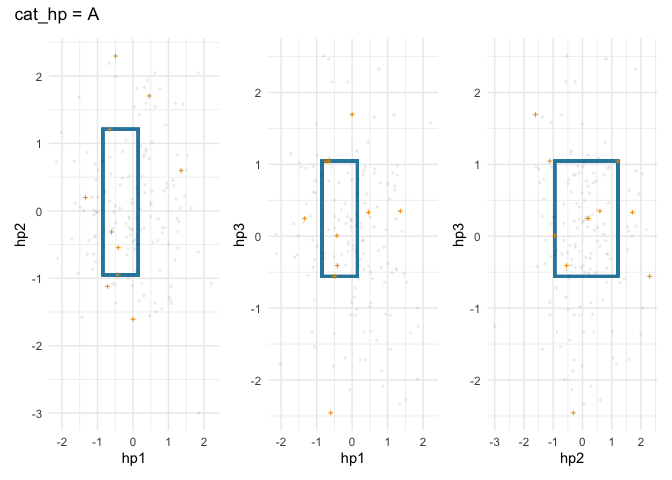
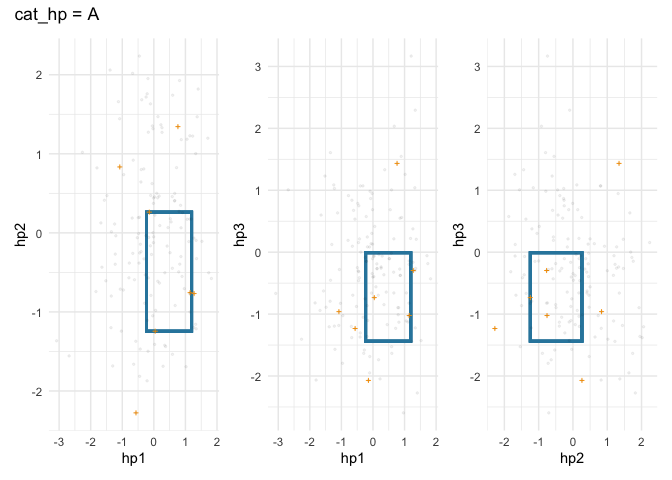
fixed README

diff --git a/README.md b/README.md
@@ -55,26 +55,23 @@ summary(learner)
 #> 
 #> Coefficients:
 #> --------------------------
-#> cat_hp   hyperparameter           min         max
-#> -------  ---------------  -----------  ----------
-#> B        hp1               -0.7764947   0.4734998
-#> B        hp2               -0.8412868   1.5176070
-#> B        hp3               -1.3116351   0.2921209
-#> A        hp1               -0.8516437   0.1483579
-#> A        hp2               -0.9486517   1.2107492
-#> A        hp3               -0.5583463   1.0453884
+#> cat_hp   hyperparameter           min          max
+#> -------  ---------------  -----------  -----------
+#> B        hp1               -0.5503593    1.1163089
+#> B        hp2               -0.6611005    1.0055666
+#> B        hp3               -0.5901556    1.0765107
+#> A        hp1               -0.2317292    1.1968421
+#> A        hp2               -1.2437949    0.2622605
+#> A        hp3               -1.4374940   -0.0089225
 #> 
 #> 
 #> Status:
 #> --------------------------
 #> cat_hp   status     objective_value   n_violations   observations
 #> -------  --------  ----------------  -------------  -------------
-#> B        optimal          0.5019506              5              8
-#> A        optimal          0.5383008              7             10
+#> B        optimal          0.5595411              6              6
+#> A        optimal          0.4877062              5              7
 ```
-
-What is special about using `README.Rmd` instead of just `README.md`?
-You can include R chunks like so:
 
 ``` r
 ggplot2::autoplot(learner, wrap = TRUE)$A
@@ -84,18 +81,17 @@ ggplot2::autoplot(learner, wrap = TRUE)$A
 
 ``` r
 outliers(learner)
-#>       task       auc           hp1        hp2        hp3 cat_hp
-#>     <char>     <num>         <num>      <num>      <num> <char>
-#>  1:     T1 0.9457825 -0.0574183463 -0.8412868  0.9874632      B
-#>  2:     T1 0.9457825 -0.3108891819 -1.1474346  0.2921209      B
-#>  3:     T3 0.9457825 -0.2442807584  0.6686297 -1.8293555      B
-#>  4:     T2 0.9457825 -1.7166074293  1.7225320 -1.0560038      B
-#>  5:     T3 0.9457825  1.9609021680  1.7007655 -1.3116351      B
-#>  6:     T2 0.9457825  1.3581245233  0.5969794  0.3494849      A
-#>  7:     T3 0.9039644 -0.4916394832  2.2959415 -0.5583463      A
-#>  8:     T3 0.9039644  0.4589323361  1.7046237  0.3321837      A
-#>  9:     T1 0.9457825 -1.3361378451  0.1975747  0.2458097      A
-#> 10:     T1 0.9457825 -0.0002474957 -1.6072197  1.6925467      A
-#> 11:     T3 0.9039644 -0.6039371069 -0.3122782 -2.4570447      A
-#> 12:     T2 0.9457825 -0.7203622272 -1.1194251  1.0443674      A
+#>       task       auc        hp1        hp2        hp3 cat_hp
+#>     <char>     <num>      <num>      <num>      <num> <char>
+#>  1:     T2 0.9758080  0.1528895  0.7124344 -0.6401940      B
+#>  2:     T2 0.9758080  1.0304430  1.4454659 -0.2052234      B
+#>  3:     T1 0.9758080  2.1619531 -0.1031801 -0.5485984      B
+#>  4:     T1 0.9758080 -0.3870489  0.8094467  1.7111854      B
+#>  5:     T3 0.9467496  0.8141827 -1.9426559  0.4616530      B
+#>  6:     T2 0.9758080 -1.3130385  0.5967580 -0.4748226      B
+#>  7:     T3 0.9758080 -0.1446649  0.2622605 -2.0713723      A
+#>  8:     T1 0.9758080  0.7625424  1.3436914  1.4339122      A
+#>  9:     T2 0.9758080 -1.0786210  0.8339320 -0.9604514      A
+#> 10:     T1 0.9758080  1.2739246 -0.7679298 -0.2958293      A
+#> 11:     T2 0.9758080 -0.5657344 -2.2768801 -1.2326940      A
 ```
